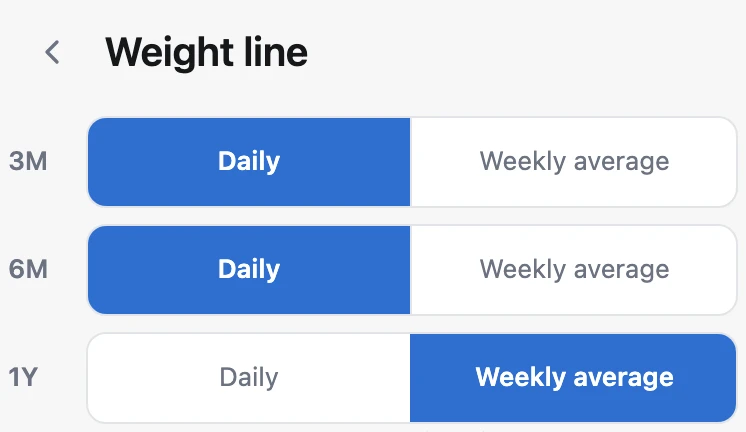
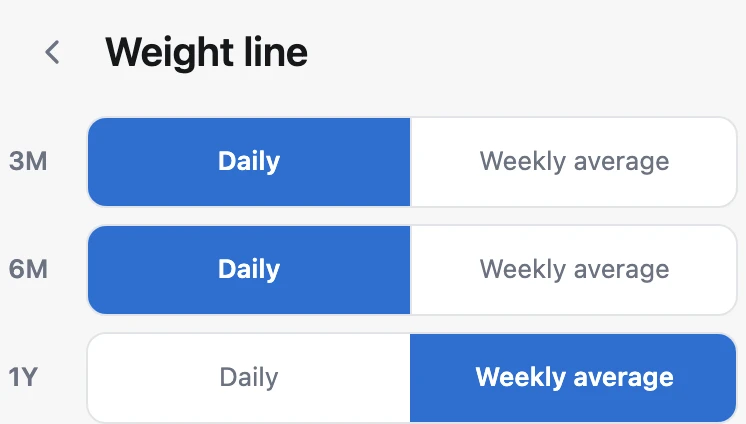
fix(shots): 体重の線の図の下端に注の 1 行目が写り込まないようにする
- shots.mjs: clipOf の pad を数値か { top, right, bottom, left } で受ける。数値のときの
  結果は変えない（--only=manual,whatsnew の再撮影でマニュアル 24 枚に差分なし）
- weight-line の pad を { top: 4, right: 4, bottom: 0, left: 4 } に。最終行の下端と
  weight-line-note の上端は実測で同じ y = 220（.settings-note の margin 6px は
  `.settings > .settings-note { margin: 0 0 12px }` に潰されている）ので、下に pad を
  足すと注の 1 行目の文字の上端が図に入る。実測値は ★ コメントに
- public/whatsnew/{ja,en}/weight-line.webp を撮り直し（クリップ 373×212、2 回撮って
  バイト一致）、i18n の size_ja / size_en を 746×424 へ

diff --git a/src/i18n.rs b/src/i18n.rs
@@ -1692,8 +1692,8 @@ pub const RELEASES: &[ReleaseNote] = &[
                 id: "weight-line",
                 alt_ja: "体重の線の設定",
                 alt_en: "The weight-line setting",
-                size_ja: (746, 432),
-                size_en: (746, 432),
+                size_ja: (746, 424),
+                size_en: (746, 424),
             }),
         }],
     },
